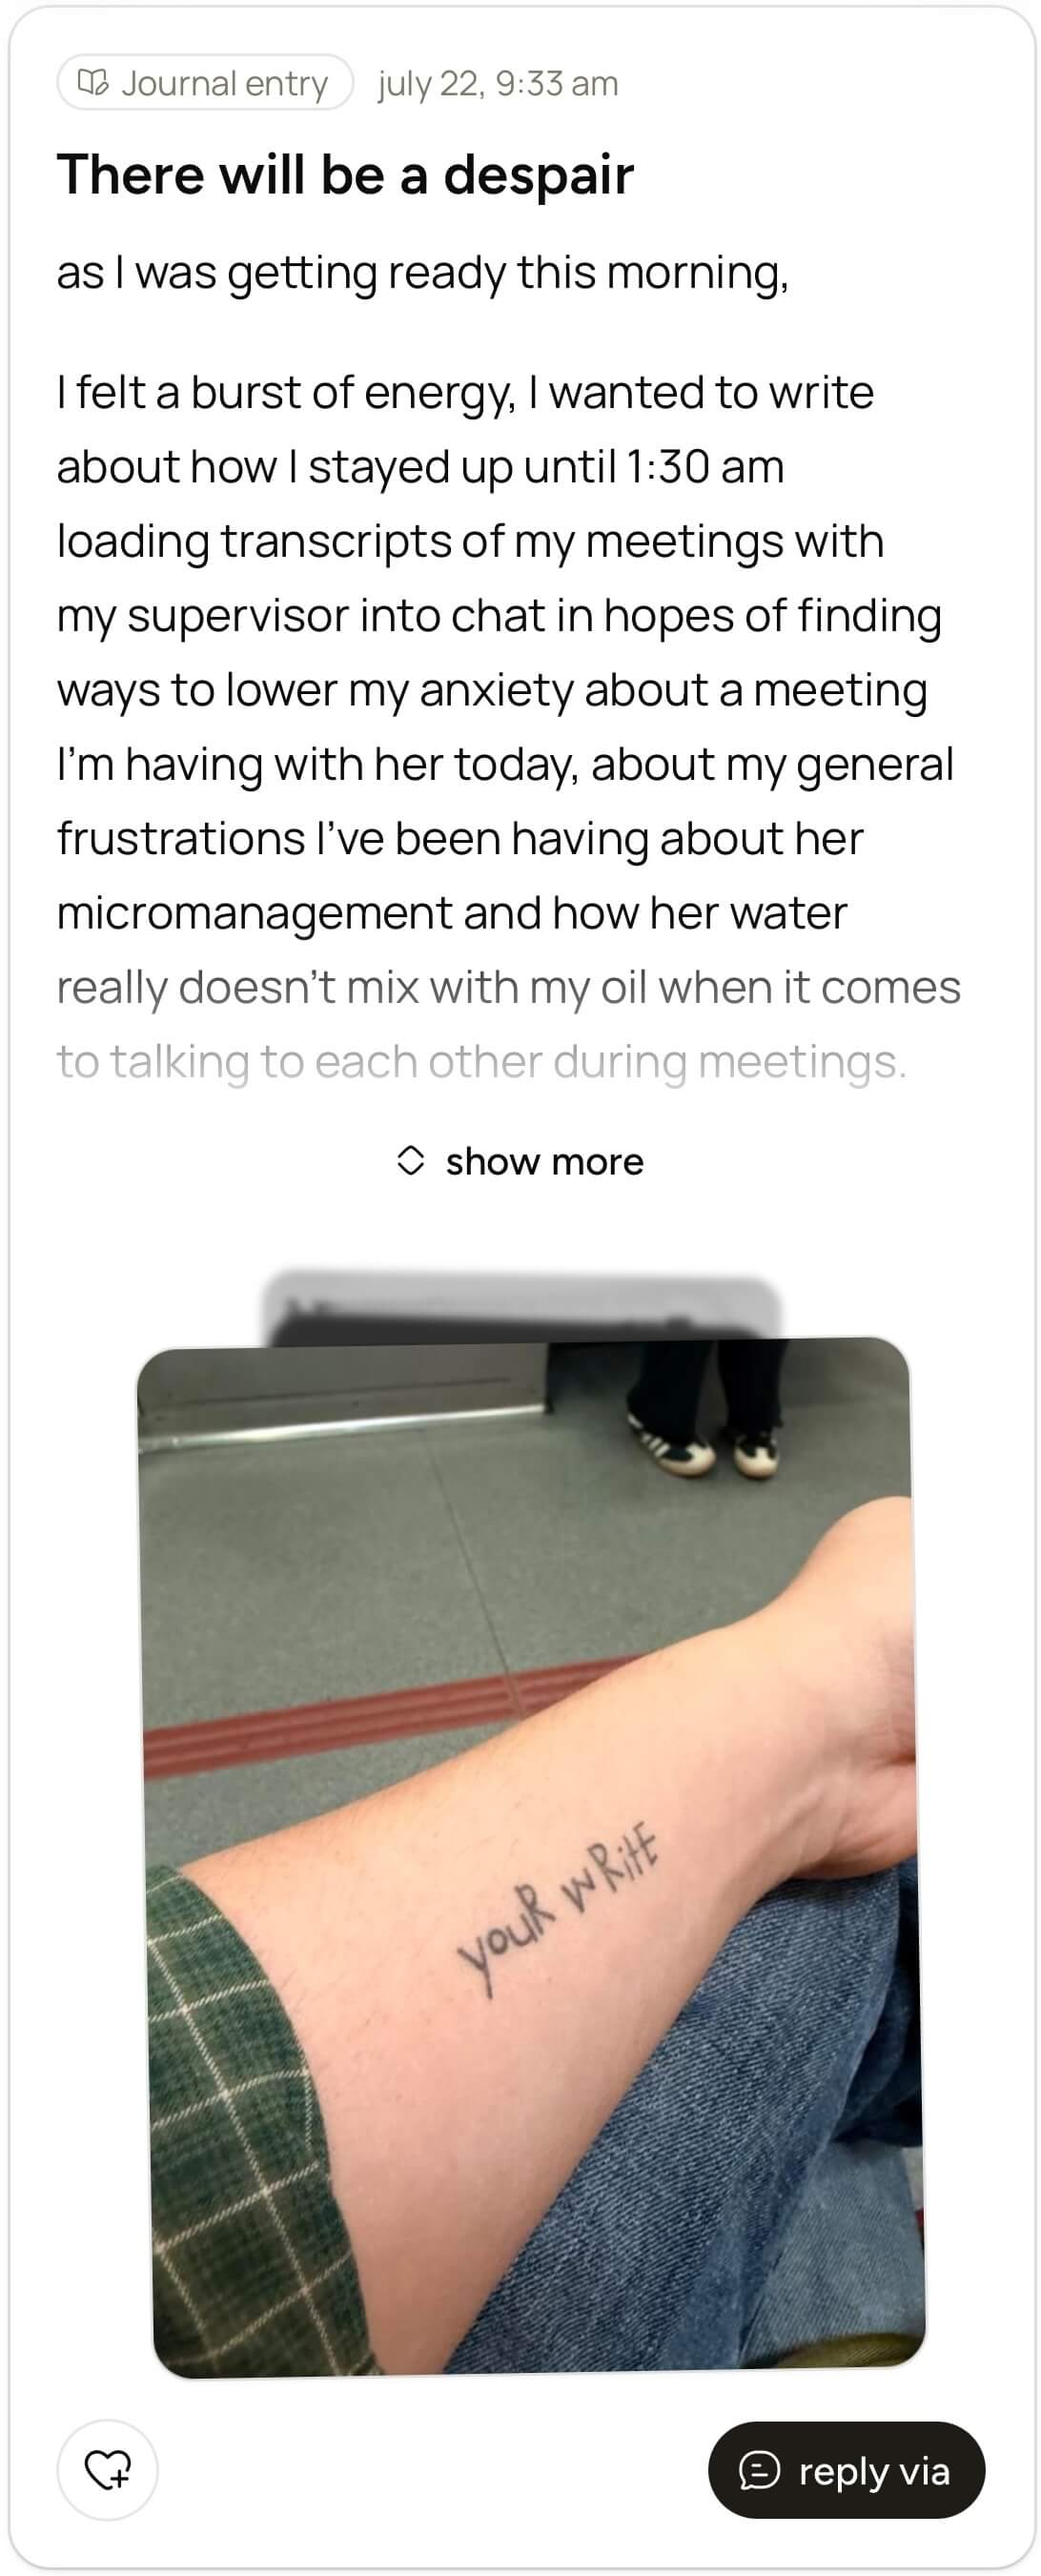
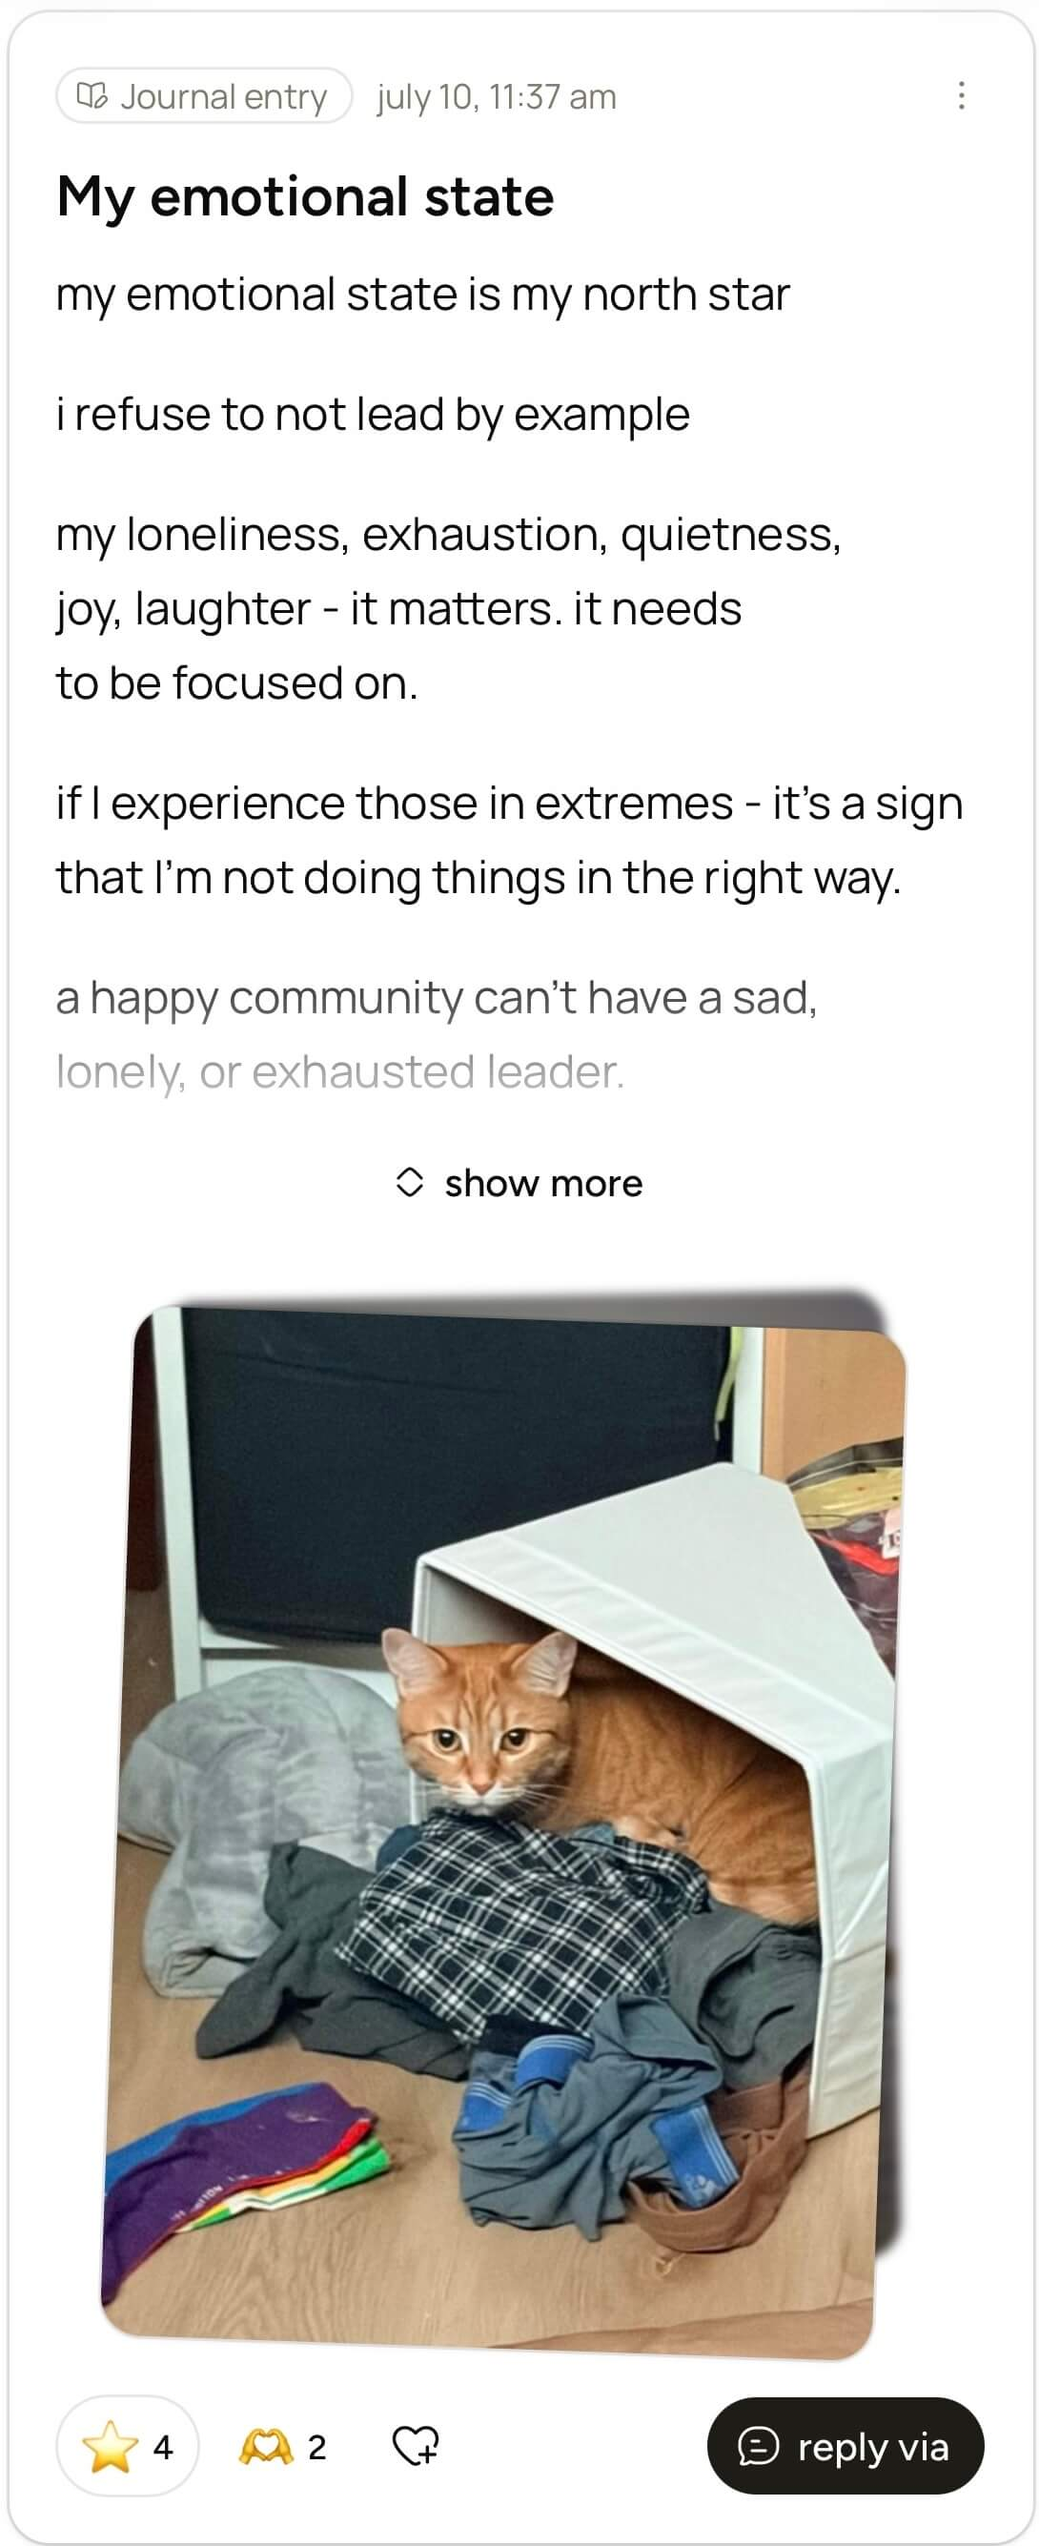
Fix landing

diff --git a/app/views/pages/landing.rb b/app/views/pages/landing.rb
@@ -53,7 +53,7 @@ class Views::Pages::Landing < Views::Base
 
   sig { void }
   def app_screenshots
-    images = [ "landing-post4.jpg", "landing-post3.jpg", "landing-post1.png" ]
+    images = [ "landing-post2.jpg", "landing-post3.jpg", "landing-post1.png" ]
     div(
       class: "glide max-w-xs mx-auto sm:max-w-2xl md:max-w-5xl md:cursor-default",
       data: {

diff --git a/app/views/admin/dashboards/show.rb b/app/views/admin/dashboards/show.rb
@@ -2,6 +2,8 @@
 # frozen_string_literal: true
 
 class Views::Admin::Dashboards::Show < Views::Base
+  # == View ==
+
   sig { override.void }
   def view_template
     Components::AppLayout(page_title: "admin") do |app_layout|
